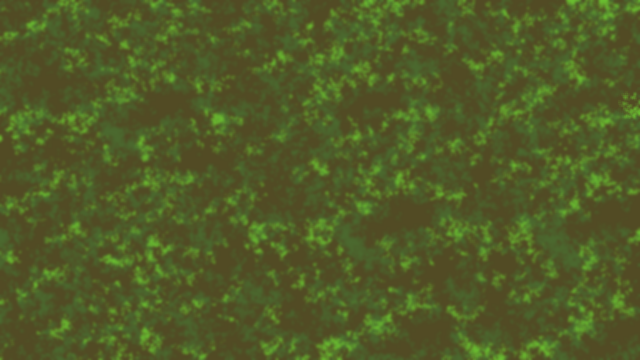
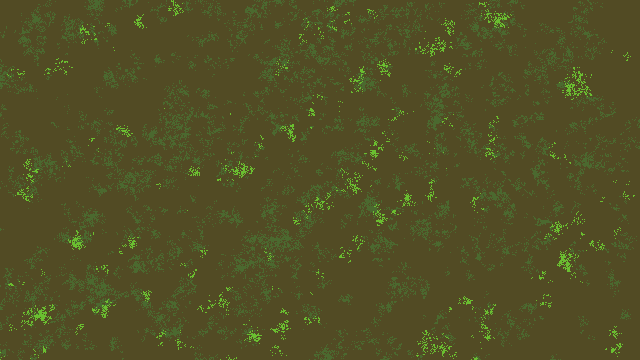
more decals

diff --git a/scripts/particle.py b/scripts/particle.py
@@ -1,0 +1,28 @@
+from pygame.math import Vector2
+
+class Particle:
+
+
+    def __init__(self, game, position, lifetime, particle_type='blood', velocity=Vector2()):
+        self.game = game
+        self.position = Vector2(position.x, position.y)
+        self.velocity = velocity
+        self.lifetime = lifetime
+        self.particle_type = particle_type
+        self.image = game.assets['particle-' + particle_type]
+    
+
+    def update(self):
+        kill = False
+        if self.lifetime <= 0:
+            kill = True
+        else:
+            self.lifetime -= 1
+        
+        self.position += self.velocity
+        
+        return kill
+
+
+    def draw(self, surface):
+        surface.blit(self.image, self.position)

diff --git a/game.py b/game.py
@@ -18,6 +18,8 @@ class Game:
         self.room_width = 640
         self.room_height = 360
         self.room = pygame.Surface((self.room_width, self.room_height))
+        self.decals = pygame.Surface((self.room_width, self.room_height))
+        self.decals.set_colorkey((0, 0, 0))
 
         # Screen
         self.screen = pygame.display.set_mode((1280, 720))
@@ -29,6 +31,13 @@ class Game:
             'pytron-head-1-bite-start' : load_image('pytron/heads/pytron_head-1_1.png'),
             'pytron-head-1-bite' : load_image('pytron/heads/pytron_head-1_2.png'),
             'pytron-body-1' : load_image('pytron/bodies/pytron_body-1_0.png'),
+            'particle-blood' : load_image('particle/particle-blood.png'),
+            'decal-blood-splatter-1' : load_image('decal/decal-blood-splatter-1.png'),
+            'decal-blood-splatter-2' : load_image('decal/decal-blood-splatter-2.png'),
+            'decal-blood-splatter-3' : load_image('decal/decal-blood-splatter-3.png'),
+            'decal-trail-1' : load_image('decal/decal-trail-1.png'),
+            'decal-trail-2' : load_image('decal/decal-trail-2.png'),
+            'decal-trail-3' : load_image('decal/decal-trail-3.png'),
         }
         self.background_image = self.assets['background-1']
 
@@ -43,6 +52,7 @@ class Game:
         # Entities
         self.player = None
         self.entities = []
+        self.particles = []
 
         self.start()
     
@@ -55,8 +65,14 @@ class Game:
             # Render
             self.room.fill((0, 0, 0))
             self.room.blit(self.background_image, (0, 0))
+            self.room.blit(self.decals, (0, 0))
             for entity in self.entities:
                 entity.draw(self.room)
+            for particle in self.particles.copy():
+                kill = particle.update()
+                particle.draw(self.room)
+                if kill:
+                    self.particles.remove(particle)
             self.screen.blit(pygame.transform.scale(self.room, self.screen.get_size()))
 
             # Input

diff --git a/scripts/pytron.py b/scripts/pytron.py
@@ -1,9 +1,11 @@
 import pygame
 import math
+import random
 from pygame.math import Vector2
 
 from scripts.pytron_body import PytronBody
 from scripts.controller import NPCController
+from scripts.particle import Particle
 
 class Pytron:
 
@@ -70,6 +72,9 @@ class Pytron:
                 pass
             case 'eating':
                 self.eat_timer = self.time_to_eat
+                
+                splatter_index = random.randint(1, 3)
+                self.game.decals.blit(self.game.assets[f'decal-blood-splatter-{splatter_index}'], self.head.position)
             case _:
                 pass
         self.head.change_head_type(self.state)
@@ -104,6 +109,8 @@ class Pytron:
                             self.change_state('eating')
                             break
             case 'eating':
+                particle = Particle(self.game, self.head.position, 5, 'blood', Vector2(random.randrange(-1, 1), random.randrange(-1, 1)))
+                self.game.particles.append(particle)
                 if self.state_timer >= self.time_to_eat:
                     self.change_state('normal')
             case _:

diff --git a/scripts/pytron_body.py b/scripts/pytron_body.py
@@ -1,5 +1,6 @@
 import pygame
 import math
+import random
 from pygame.math import Vector2
 
 class PytronBody:
@@ -46,6 +47,9 @@ class PytronBody:
         self.velocity += self.force * self.imass
         self.velocity *= self.damping
         self.position += self.velocity
+        if self.velocity.length() > 0.5:
+            trail_index = random.randint(1, 3)
+            self.game.decals.blit(self.game.assets[f'decal-trail-{trail_index}'], self.position)
 
         self.handle_boundary_collisions()
 